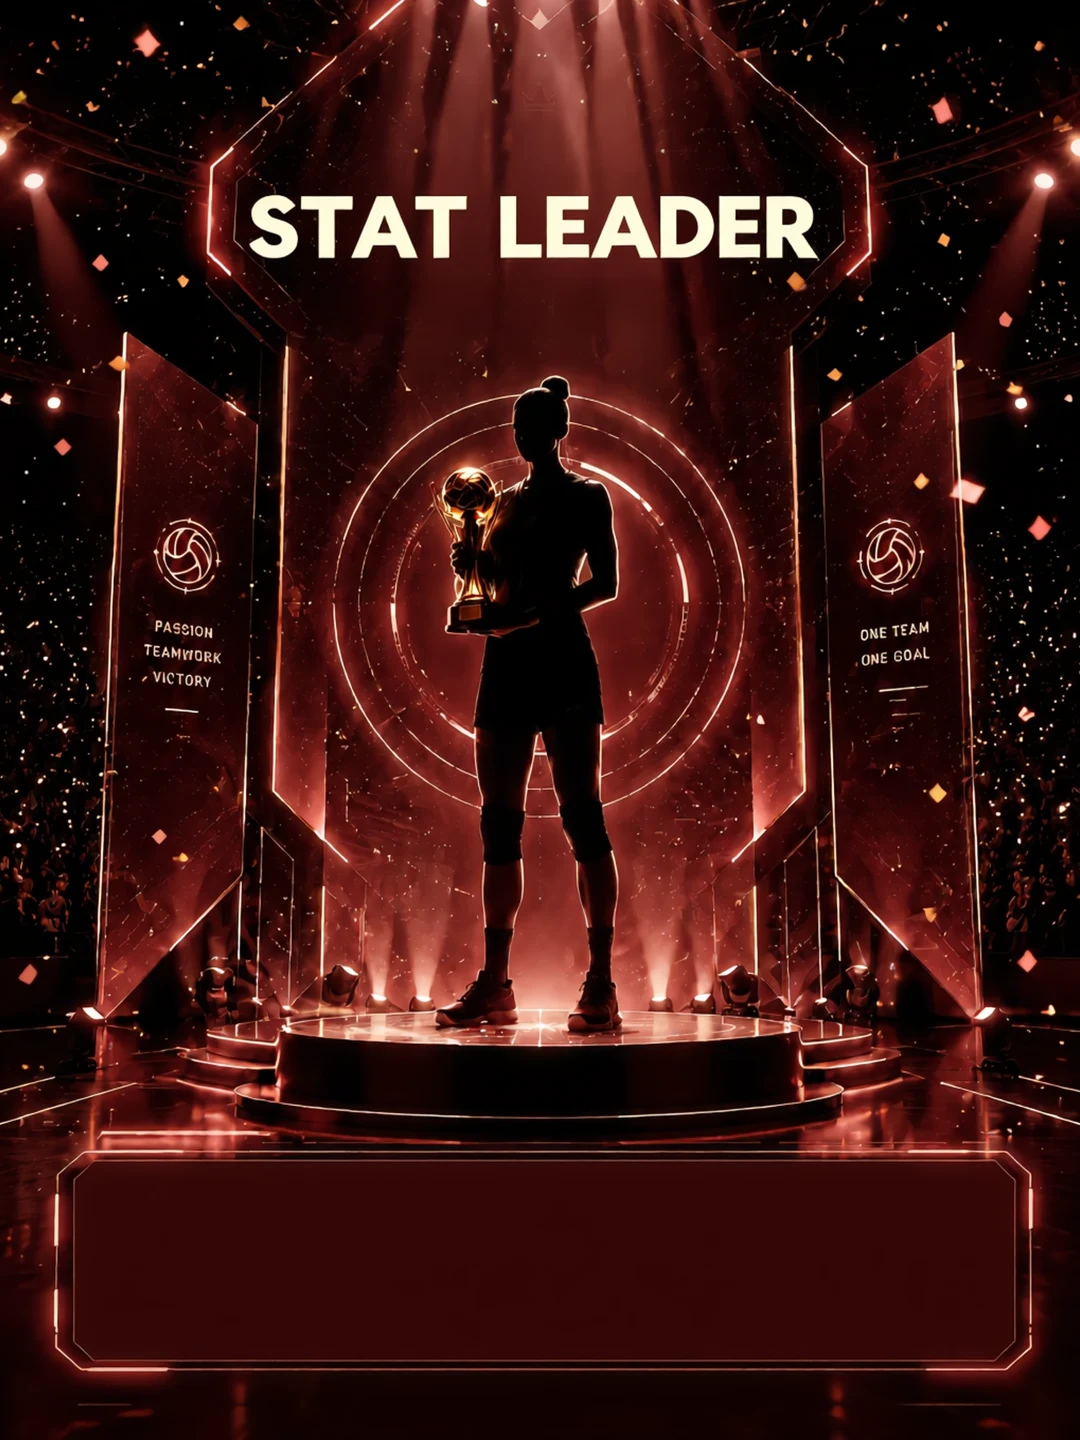
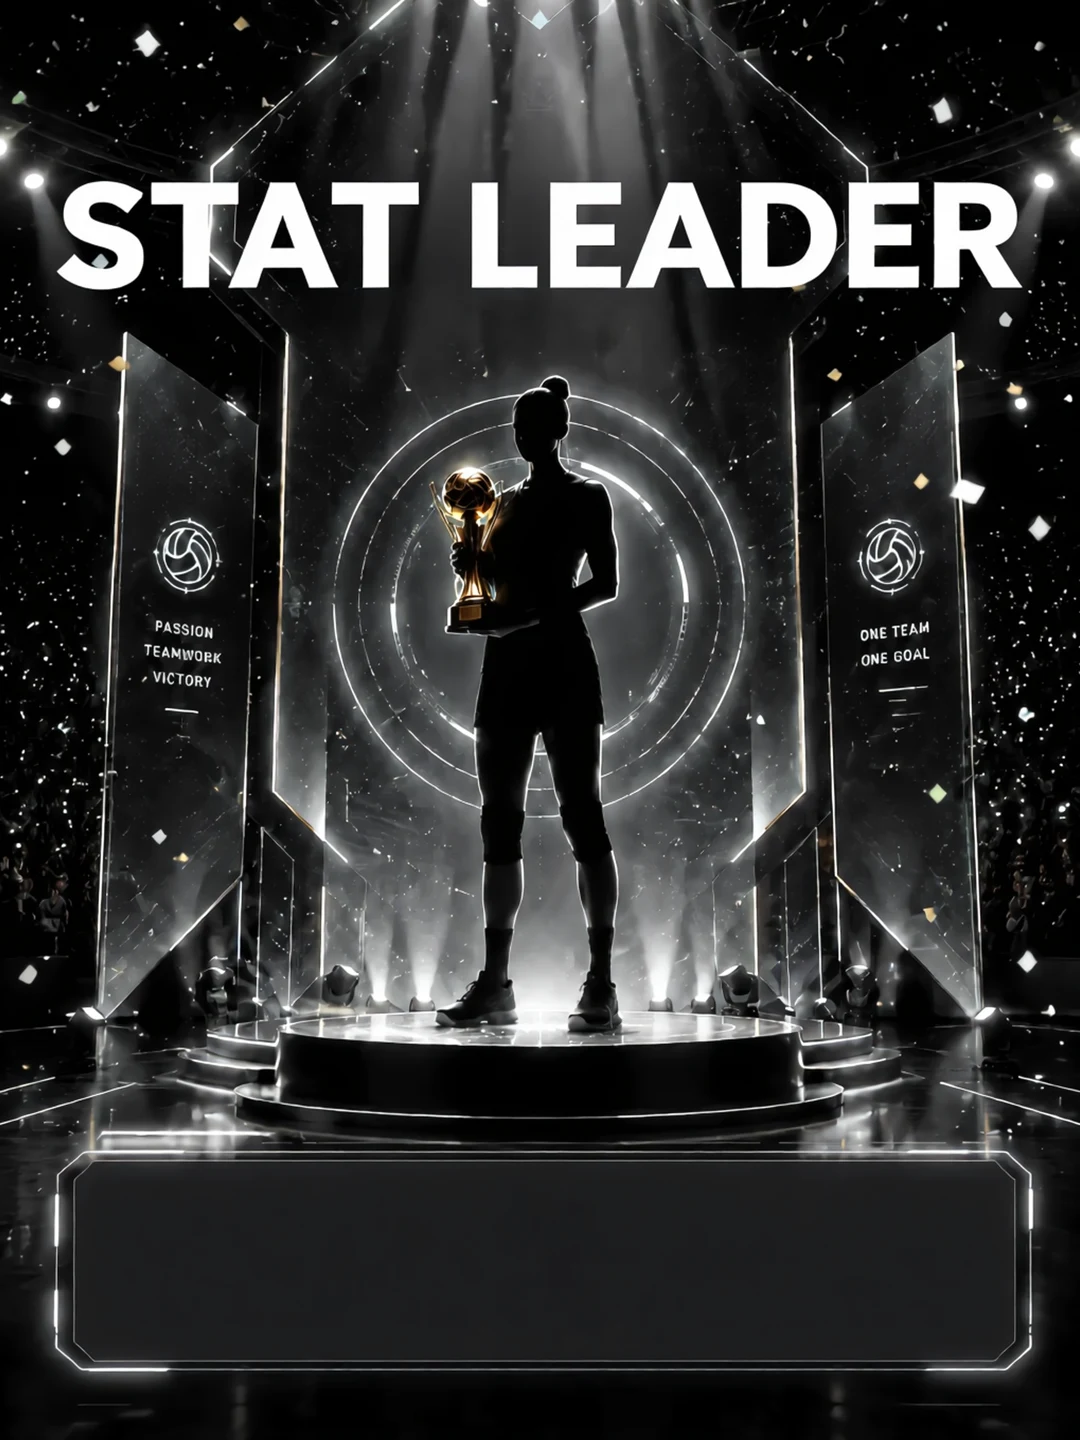
260722 :: [시상식] 기량발전상·기록왕 색상 교체 — 퍼플→선라이즈 오렌지 · 레드→플래티넘 실버 (사용자 평가 반영)
- 테스터 평가(퍼플·레드 부조화) → 사용자 확정 색으로 kling 재생성·교체
- TONE_ORANGE(샘플 #FCB32A)·TONE_SILVER(샘플 #FEFEFE→쿨톤 #D8DEEA) 전환
- titleTopPct 실측 갱신(오렌지 9.0·실버 12.3), 실버 부제 오염은 Remove 인페인트 처리
- 검증: tsc 0 · 가드 ALL PASS(충돌 여유 0.62%/0.87%) (생성·코드=Opus, 검증·커밋=Fable)

Claude-Session: https://claude.ai/code/session_01NE4yyiFKGNDJ2r8yvwMHPx

diff --git a/data/awardPoster.ts b/data/awardPoster.ts
@@ -29,8 +29,8 @@ export interface PosterTone { bright: string; dim: string; line: string; glow: s
 // 상별 톤(sharp 상위 2% 네온 평균 샘플 근거는 주석의 #hex). 민트 기본은 AwardPoster.DEFAULT_TONE과 값 동기(무회귀).
 const TONE_MINT: PosterTone   = { bright: '#5FEAD8', dim: 'rgba(150,238,224,0.72)', line: 'rgba(120,230,215,0.28)', glow: 'rgba(95,234,216,0.5)' };  // 샘플 #24A096 (mvp/finals)
 const TONE_BLUE: PosterTone   = { bright: '#5FB8EA', dim: 'rgba(158,206,240,0.74)', line: 'rgba(120,188,235,0.30)', glow: 'rgba(95,184,234,0.5)' };  // 샘플 #19B8E2 (rookie)
-const TONE_PURPLE: PosterTone = { bright: '#C77FF2', dim: 'rgba(214,176,244,0.74)', line: 'rgba(190,135,240,0.30)', glow: 'rgba(199,127,242,0.5)' }; // 샘플 #AC2CE2 (mip)
-const TONE_RED: PosterTone    = { bright: '#F2707F', dim: 'rgba(244,168,178,0.74)', line: 'rgba(240,112,127,0.30)', glow: 'rgba(242,112,127,0.5)' };  // 샘플 #CB6D59 웜레드 (statleader)
+const TONE_ORANGE: PosterTone = { bright: '#FF9A3D', dim: 'rgba(255,190,150,0.74)', line: 'rgba(250,150,60,0.30)', glow: 'rgba(255,154,61,0.5)' };  // 샘플 #FCB32A (상위2% 밝은·채도 평균, 오렌지 네온) — bright는 finalsMvp 골드와 구분되게 선라이즈 오렌지로 보정 (mip, 2026-07-22 kling 2462_1)
+const TONE_SILVER: PosterTone = { bright: '#D8DEEA', dim: 'rgba(206,214,228,0.74)', line: 'rgba(176,186,205,0.30)', glow: 'rgba(216,222,234,0.5)' };  // 샘플 #FEFEFE 순백 네온 → 순백과 구분되게 쿨 플래티넘 실버로 보정 (statleader, 2026-07-22 kling Remove 2724_0)
 const TONE_GOLD: PosterTone   = { bright: '#F2C24A', dim: 'rgba(244,214,150,0.74)', line: 'rgba(240,194,74,0.30)', glow: 'rgba(242,194,74,0.5)' };   // 샘플 #D59823 골드 (finalsMvp) — bright는 샘플 hue를 밝게 보정
 
 /** 시즌 라벨 표시 모드 — 'full'(키커 "SEASON" + 연도 2줄, 기본) / 'yearOnly'(연도 1줄만). AwardPoster·가드와 값 동기. */
@@ -47,8 +47,8 @@ export const AWARD_TEMPLATES: Record<'mvp' | 'finalsMvp' | 'rookie' | 'mostImpro
   mvp:          { src: require('../assets/awards/mvp_stage.webp'),        tone: TONE_MINT,   titleTopPct: 12.3 },  // 타이틀 "MOST VALUABLE PLAYER" 상단 실측 12.36%
   finalsMvp:    { src: require('../assets/awards/finals_mvp_stage.webp'), tone: TONE_GOLD,   titleTopPct: 12.2 },  // 골드 자산 (2026-07-22 kling 5586_1) 타이틀 상단 실측 12.29%
   rookie:       { src: require('../assets/awards/rookie_stage.webp'),     tone: TONE_BLUE,   titleTopPct: 12.0 },  // 신인상 타이틀 상단 실측 12.08%
-  mostImproved: { src: require('../assets/awards/mip_stage.webp'),        tone: TONE_PURPLE, titleTopPct: 8.7, seasonMode: 'yearOnly' }, // 기량발전상 타이틀 "MOST" 상단 실측 8.75%(높음) → yearOnly로 시즌 라벨 축약, §8 겹침 정정
-  statLeader:   { src: require('../assets/awards/statleader_stage.webp'), tone: TONE_RED,    titleTopPct: 12.4 },  // 기록왕(흰 "STAT LEADER") 타이틀 상단 실측 12.43% — 화면 배선은 후속(부문 다수, §8), 템플릿·프리뷰만
+  mostImproved: { src: require('../assets/awards/mip_stage.webp'),        tone: TONE_ORANGE, titleTopPct: 9.0, seasonMode: 'yearOnly' }, // 기량발전상 오렌지 자산(2026-07-22 kling 2462_1) 타이틀 "MOST" 상단 실측 9.10%(높음) → yearOnly로 시즌 라벨 축약, §8 겹침 정정
+  statLeader:   { src: require('../assets/awards/statleader_stage.webp'), tone: TONE_SILVER, titleTopPct: 12.3 },  // 기록왕 실버 자산(2026-07-22 kling Remove 2724_0, 흰 "STAT LEADER") 타이틀 상단 실측 12.36% → full — 화면 배선은 후속(부문 다수, §8), 템플릿·프리뷰만
 };
 
 export const POS_EN: Record<Position, string> = {